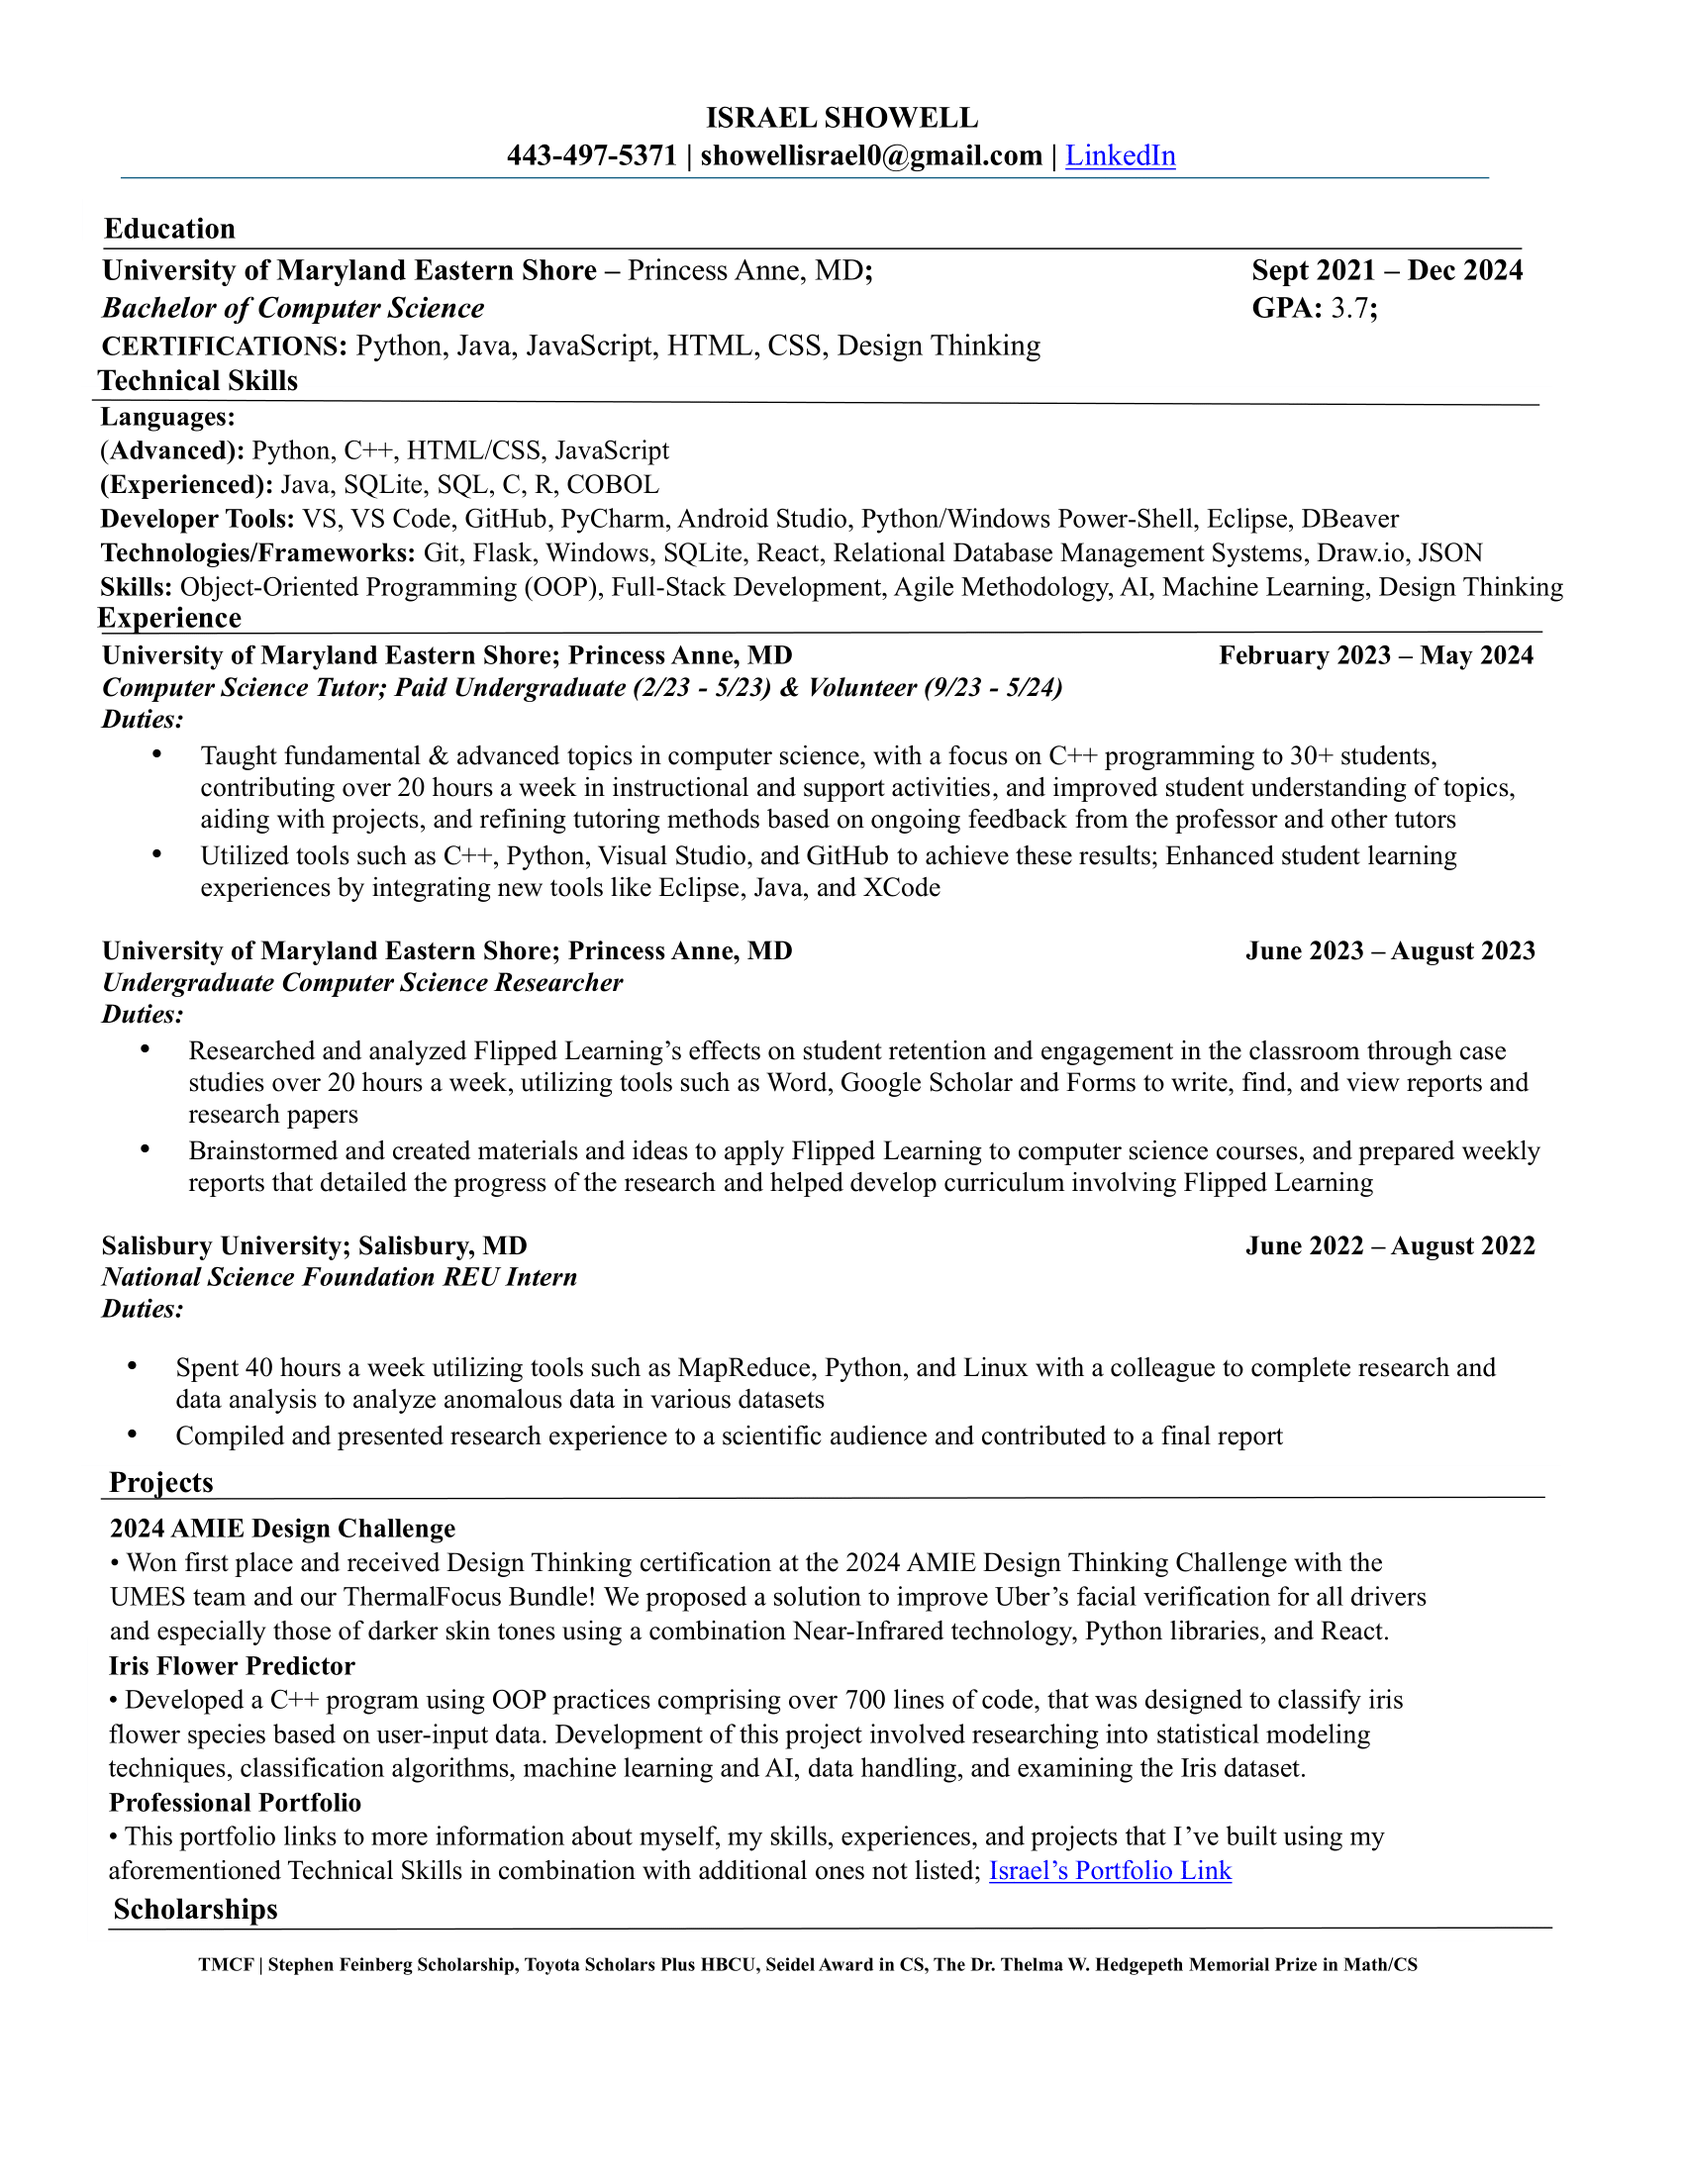
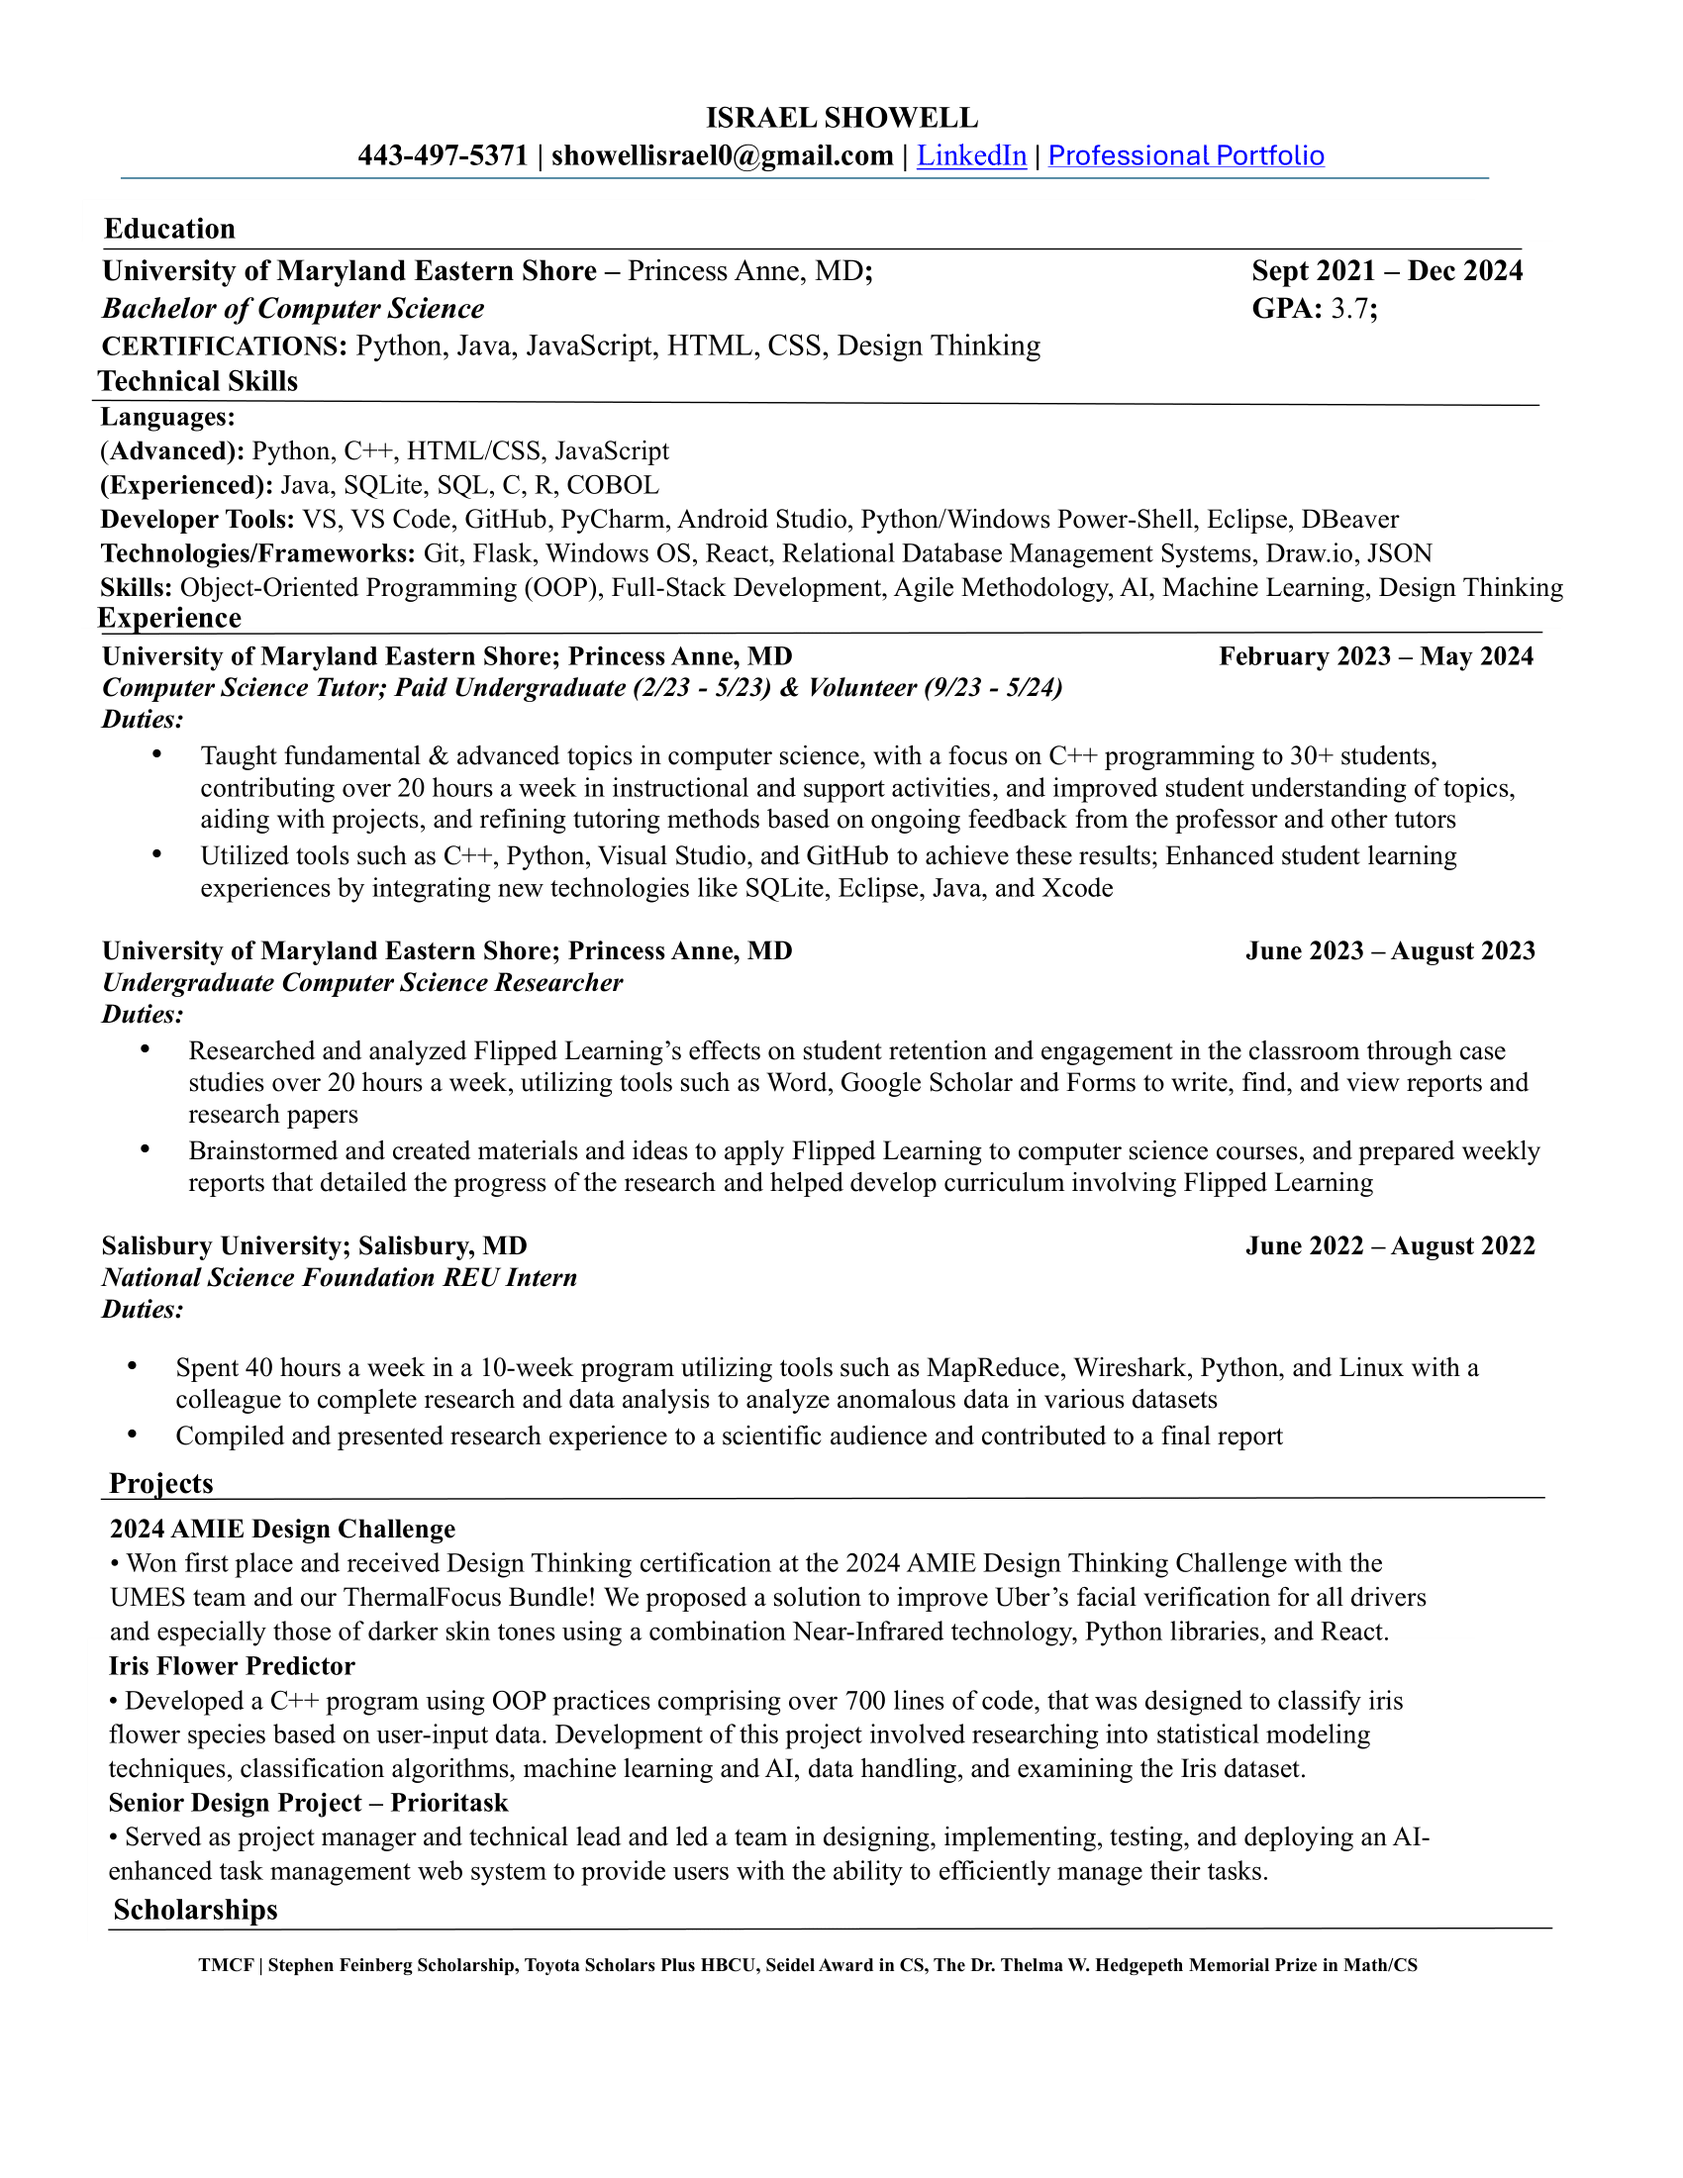
Added another project to the portfolio and updates

diff --git a/prioritask.html b/prioritask.html
@@ -12,7 +12,7 @@ Template from:
 -->
 <html>
 	<head>
-		<title>Stock Master</title>
+		<title>Prioritask</title>
 		<meta charset="utf-8" />
 		<meta name="viewport" content="width=device-width, initial-scale=1, user-scalable=no" />
 
@@ -74,8 +74,8 @@ Template from:
 				<div id="main" class="wrapper style1">
 					<div class="container">
 						<header class="major">
-							<h2>Stock Master</h2>
-							<p>An online web application that allows users to track their company's inventory via a simple dashboard!</p>
+							<h2>Prioritask</h2>
+							<p>An online web application that allows users to manage their tasks efficiently via a simple dashboard!</p>
 						</header>
 						<div class="row gtr-150">
 							<div class="col-8 col-12-medium">
@@ -86,15 +86,13 @@ Template from:
 										<section>
 											<h3>Project Purpose</h3>
 											<p>
-												This web application allows a user to register an account with a username and password, login into their account, 
-												and add, delete, and edit items via a simple, yet effective dashboard. 
-												I designed this web application as a way to further practice using HTML/CSS as a Front-End, Python as a Back-End, and SQLite as a database management system.
-												I was also able to practice more full-stack practices such as;
-												Creating a practical program, reusing old software, and database management actions 
+												This web-based task management application was my project for my Senior Design at University of Maryland Eastern Shore (UMES). I led a team as project manager and technical lead in designing, implementing, testing, and deploying this application that allows a user to register an account with a username and password, login into their account, 
+												and add, delete, and edit tasks via a simple, yet effective dashboard, organize, filter, and sort these tasks, and even ask Taski, an AI-powered task assistant bot for helpful ways to solve a task! 
+												By creating this full-stack web application we were able to further practice using HTML/CSS as a Front-End, Python as a Back-End, SQLite as a database management system, and integrating APIs and AI into a working application!
 											</p>
 											<footer>
 												<ul class="actions">
-													<li><a href="https://github.com/IsraelShowell/Stock-Master" class="button">See Github Repository</a></li>
+													<li><a href="https://github.com/IsraelShowell/Prioritask-Task-Management" class="button">See Github Repository</a></li>
 													<li><a href="https://github.com/IsraelShowell" class="button">Other Github Repositories</a></li>
 												</ul>
 											</footer>
@@ -112,10 +110,11 @@ Template from:
 											<img class="image fit" src="images/stock-master-demo.png" alt="A demo of the web application's dashboard." />
 											<h3>Practiced Skills</h3>
 											<ul>
+												<li>Project management and documentation</li>
+												<li>Full Stack Development</li>
 												<li>Python Development</li>
 												<li>Flask Development</li>
-												<li>Database documentation</li>
-												<li>Database management</li>
+												<li>Database documentation and management</li>
 												<li>Connecting Front-Ends and Back-Ends together</li>
 												<li>Developing Web Applications</li>
 												<li>Software Reuse; Primarily Component and Unit reuse</li>
@@ -127,9 +126,8 @@ Template from:
 										<section>
 											<h3>Future Plans</h3>
 											<p>
-												This web application has been a very educating and fun project to create, however this project is underdeveloped and not
-                                    			ready to push to actual real-world users, and serves more as a practical demonstration of what I can do. I plan to take what I learned here, and create an optimized, more practical web application for real users.
-                                    			The lessons and skills honed from developing this will serve as a guide to developing a better software with more features in the future!												
+												This web application has been a very educating and fun project to create, however, I would consider this project a protype and not
+                                    			ready to sustain actual real-world users, and serves more as a practical demonstration of what I can do in a team. I plan to take what I learned here, and use it as a base to learn more about web development, and create a more robust and feature-rich task management application in the future!											
 											</p>
 										</section>
 									</section>

diff --git a/voluble.html b/voluble.html
@@ -51,6 +51,7 @@
                         <li>
                             <a href="#">Projects</a>
                             <ul>
+                                <li><a href="prioritask.html">Prioritask</a></li>
                                 <li><a href="stock-master.html">Stock Master</a></li>
                                 <li><a href="voluble.html">Voluble</a></li>
                                 <li><a href="web-application.html">University Course Evaluation</a></li>

diff --git a/index.html b/index.html
@@ -70,6 +70,7 @@ Template from:
 							<li>
 								<a href="#">Projects</a>
 								<ul>
+									<li><a href="prioritask.html">Prioritask</a></li>
 									<li><a href="stock-master.html">Stock Master</a></li>
 									<li><a href="voluble.html">Voluble</a></li>
 									<li><a href="web-application.html">University Course Evaluation</a></li>

diff --git a/iris-predictor.html b/iris-predictor.html
@@ -62,6 +62,7 @@ Template from:
 						<li>
 							<a href="#">Projects</a>
 							<ul>
+								<li><a href="prioritask.html">Prioritask</a></li>
 								<li><a href="stock-master.html">Stock Master</a></li>
 								<li><a href="voluble.html">Voluble</a></li>
 								<li><a href="web-application.html">University Course Evaluation</a></li>

diff --git a/web-application.html b/web-application.html
@@ -59,6 +59,7 @@ Template from:
 						<li>
 							<a href="#">Projects</a>
 							<ul>
+								<li><a href="prioritask.html">Prioritask</a></li>
 								<li><a href="stock-master.html">Stock Master</a></li>
 								<li><a href="voluble.html">Voluble</a></li>
 								<li><a href="web-application.html">University Course Evaluation</a></li>
